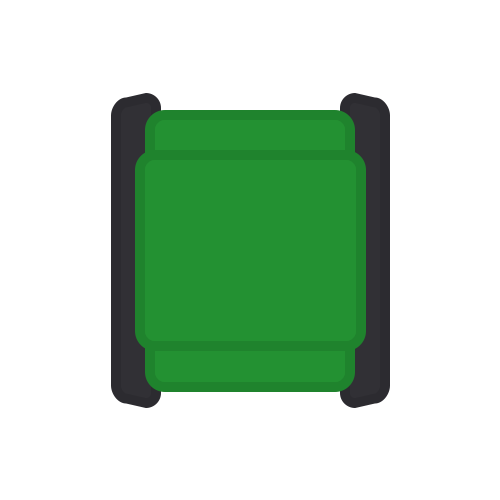
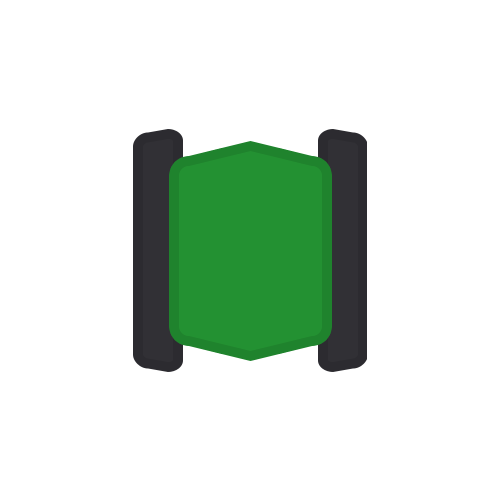
tank buttons woo yeah + changed how tanks work, focus on tier

Changed region(s): [[0.21, 0.18, 0.78, 0.84]]

diff --git a/client/js/gameIO.js b/client/js/gameIO.js
@@ -99,7 +99,7 @@ function gameIO() {
     window.addEventListener("mousedown", function (event) {
       if (event.button === 0) {
         game.renderers[0].UI.buttons.forEach(button => {
-          if (button.isPointInside({ x: mouse.x, y: mouse.y })) button.onclick();
+          if (button.isPointInside({ x: mouse.x, y: mouse.y })) { button.onclick(); button.pressed = true }
         });
         mouse.clicking = true;
         mouse.changed = true;
@@ -124,6 +124,9 @@ function gameIO() {
     });
     window.addEventListener("mouseup", function (event) {
       if (event.button === 0) {
+        game.renderers[0].UI.buttons.forEach(button => {
+          if (button.pressed === true) { button.pressed = false }
+        });
         mouse.clicking = false;
         mouse.changed = true;
       }
@@ -207,10 +210,10 @@ function gameIO() {
         labels: [],
         render: function (ctx, ratio) {
           this.buttons.forEach(button => {
-            button.render(ctx, ratio);
+            button.render(ctx, ratio, 1);
           });
           this.labels.forEach(label => {
-            label.render(ctx, ratio);
+            label.render(ctx, ratio, 1);
           });
         },
         getButtonById: function (id) {
@@ -591,7 +594,7 @@ function gameIO() {
     };
   }
 
-  game.button = function (id, x, y, width, height, radius, style, inside, onclick) {
+  game.button = function (id, x, y, width, height, radius, style, inside, onclick, opacity) {
     var element = {};
     element.buttonId = id || null;
     //element.anchors = anchors || { x: 2, y: 2 };
@@ -600,7 +603,8 @@ function gameIO() {
     element.width = width || 100;
     element.height = height || 100;
     element.radius = radius || 5;
-    element.style = style || { color: "#000", hoverColor: "#fff", clickColor: "#929", stroke: null, lineWidth: 0 };
+    element.opacity = opacity || 1;
+    element.style = style || { fill: { default: "#000", hover: "#fff", click: "#929" }, stroke: { default: 0, hover: 0, click: 0, lineWidth: 0 } };
     element.position = new game.Vector2(0, 0);
     element.offset = new game.Vector2(x || 0, y || 0);
     element.inside = inside || game.text("No Value", 0, 0, "#ddd", null, "Arial", 32); //@ {game.text}, {game.image}
@@ -627,18 +631,29 @@ function gameIO() {
       ctx.roundRect(0, 0, this.width / ratio, this.height / ratio, this.radius / ratio);
 
       if (this.pressed) {
-        if (this.style.clickColor) ctx.fillStyle = this.style.clickColor;
+        if (this.style.fill.click) ctx.fillStyle = this.style.fill.click;
       } else {
         if (this.hovered) {
-          if (this.style.hoverColor) ctx.fillStyle = this.style.hoverColor;
+          if (this.style.fill.hover) ctx.fillStyle = this.style.fill.hover;
         } else {
-          if (this.style.color) ctx.fillStyle = this.style.color;
+          if (this.style.fill.default) ctx.fillStyle = this.style.fill.default;
         }
       }
-      if (this.style.color) ctx.fill();
+      if (this.style.fill) ctx.fill();
 
-      if (this.style.stroke) ctx.strokeStyle = this.style.stroke;
-      if (this.style.stroke) ctx.stroke();
+      if (this.style.stroke) {
+        if (this.pressed) {
+          if (this.style.stroke.click) ctx.strokeStyle = this.style.stroke.click;
+        } else {
+          if (this.hovered) {
+            if (this.style.stroke.hover) ctx.strokeStyle = this.style.stroke.hover;
+          } else {
+            if (this.style.stroke.default) ctx.strokeStyle = this.style.stroke.default;
+          }
+        }
+        ctx.lineWidth = this.style.stroke.lineWidth / ratio;
+        if (this.style.stroke) ctx.stroke();
+      }
 
       ctx.rotate(-this.rotation);
       ctx.translate(-this.position.x, -this.position.y);
@@ -665,6 +680,7 @@ function gameIO() {
     element.width = width || 100;
     element.height = height || 100;
     element.radius = radius || 5;
+    element.opacity = 1;
     element.style = style || { color: "#ae1919", stroke: null, lineWidth: 0 };
     element.position = new game.Vector2(0, 0);
     element.offset = new game.Vector2(x || 0, y || 0);
@@ -1381,7 +1397,7 @@ function gameIO() {
 
       obj.tank = packet.tank;
       obj.tier = packet.tier;
-      if (obj.tank !== undefined) obj.visual.image.src = `./client/images/tanks/${obj.tank}/${obj.tier}/tank.png`;
+      if (obj.tank !== undefined) obj.visual.image.src = `./client/images/tanks/${obj.tier}/${obj.tank}/tank.png`;
       if (packet.turrets !== undefined)
         obj.turrets.forEach(turret => {
           turret.parent.remove(turret);
@@ -1392,6 +1408,17 @@ function gameIO() {
         game.actualLvl = packet.level;
         game.actualXp = packet.lvlPercent;
       }
+      if (packet.tank !== undefined && packet.tier !== undefined && obj.id === game.me.id) {
+        game.renderers[0].UI.buttons.forEach(button => {
+          let details = button.buttonId.split(":");
+          switch (details[0]) {
+            case "tankButton":
+              if (details[1] > packet.tier) button.opacity = 0.5;
+              break;
+          }
+        });
+      }
+
       if (packet.turrets !== undefined)
         packet.turrets.forEach(turret => {
           let turretImg = new Image();

diff --git a/server/server/player.js b/server/server/player.js
@@ -32,28 +32,28 @@ class Body {
 }
 
 let tankBodies = [
-    [ //* Tank 0
-        //* Tier 0
+    [ //* Tier 0
+        //* Tank 0
         new Body(0, 1, 1, 1) //* Default - 0.0
     ],
-    [ //* Tank 1
-        //* Tier 0
+    [ //* Tier 1
+        //* Tank 0
         new Body(1, 1.2, 1, 1), //* Serpent MK I - 1.0
-        //* Tier 1
-        new Body(1, 1.4, 0.8, 1), //* Serpent MK II - 1.1
-        //* Tier 2
-        new Body(1, 2, 0.5, 1), //* Basilisk - 1.2
-        //* Tier 3
-        new Body(1, 4, 999, 10), //* idk hacker thing - 1.3
-    ],
-    [ //* Tank 2
-        //* Tier 0
+        //* Tank 1
         new Body(0, 1, 1.2, 1), //* Squire MK I - 2.0
-        //* Tier 1
-        new Body(2, 0.8, 1.4, 1), //* Squire MK II - 2.1
-        //* Tier 2
-        new Body(1, 0.6, 2, 1), //* Knight - 2.2
     ],
+    [ //* Tier 2
+        //* Tank 0
+        new Body(1, 1.4, 0.8, 1), //* Serpent MK II - 1.1
+        //* Tank 1
+        new Body(2, 0.8, 1.4, 1), //* Squire MK II - 2.1
+    ],
+    [ //* Tier 3
+        //* Tank 0
+        new Body(1, 2, 0.5, 1), //* Basilisk - 1.2
+        //* Tank 1
+        new Body(1, 0.6, 2, 1), //* Knight - 2.2
+    ]
 ];
 
 
@@ -184,7 +184,7 @@ game.addType(
         obj.tier = 0;
 
         obj.tank === 0 ? obj.tier = 0 : null;
-        obj.props = tankBodies[obj.tank][obj.tier];
+        obj.props = tankBodies[obj.tier][obj.tank];
 
         //!SHOOTING
         obj.turretTier = 0;
@@ -205,7 +205,7 @@ game.addType(
         obj.dance = false;
 
         //!LEVELS
-        obj.xp = 0;
+        obj.xp = 60000;
         obj.level = 0;
         obj.levelThreshold = l[0];
 
@@ -219,7 +219,7 @@ game.addType(
         obj.lastDestroyed = undefined;
 
         obj.handleHitbox = () => {
-            obj.props = tankBodies[obj.tank][obj.tier];
+            obj.props = tankBodies[obj.tier][obj.tank];
             obj.body.shapes[0] = new game.rectangle(obj.props.hitbox.h * DEFAULT_SCALE * obj.props.tankSize, obj.props.hitbox.w * DEFAULT_SCALE * obj.props.tankSize);
         }
 
@@ -234,7 +234,8 @@ game.addType(
         obj.upgradeBody = (data) => {
             let tier = data.tier;
             let tank = data.tank;
-            if (tier === 0 || tank === 0) return;
+            if (tier === 0) return;
+            if (tier - obj.tier > 1) return;
             if (obj.tank !== 0) if (obj.tank !== tank) return;
             if (obj.level < (tier * 10 + (tier - 1) * 10)) return;
             if (tier <= obj.tier) return;
@@ -247,6 +248,7 @@ game.addType(
             let tier = data.tier;
             let turreti = data.turreti;
             if (tier === 0) return;
+            if (tier - obj.tier > 1) return;
             //if (obj.tank !== 0) if (obj.tank !== tank) return;
             if (obj.level < tier * 10) return;
             if (tier <= obj.turretTier) return;

diff --git a/client/js/client.js b/client/js/client.js
@@ -42,7 +42,7 @@ window.onload = function () {
             scene.add(obj.playerName, 7);
 
             let tank = new Image();
-            tank.src = `./client/images/tanks/${packet.tank}/${packet.tier}/tank.png`;
+            tank.src = `./client/images/tanks/${packet.tier}/${packet.tank}/tank.png`;
             obj.visual = new game.image(tank, 0, 0, 160 * packet.scale, 160 * packet.scale);
             scene.add(obj.visual, 1);
 
@@ -189,15 +189,29 @@ window.onload = function () {
     renderer.addLabel(new game.label("level_behind", { x: 2, y: Math.max(1 + 0.5 - (window.innerHeight / 722 * 0.5), 1) }, 0, -120, 426, 36, 18, { color: "rgba(49, 48, 53, 0.6)" }, game.text()));
     renderer.addLabel(new game.label("level", { x: 2, y: Math.max(1 + 0.5 - (window.innerHeight / 722 * 0.5), 1) }, 0, -120, 420, 30, 15, { color: "rgba(35, 145, 50, 0.9)" }, levelText));
 
-    let buttonText = game.text("Body", 0, 0, "#ddd", null, "Arial", 20);
-    renderer.addButton(new game.button("button1", 50, -200, 100, 100, 10, null, buttonText, function () {
-        game.addPacket("upgradePacket", ["body", { tier: 1, tank: 1 }]);
-    }));
+    let bodies = [1, 2, 2, 2];
+    //let tank = 0;
 
-    let buttonText2 = game.text("Turret", 0, 0, "#ddd", null, "Arial", 20);
-    renderer.addButton(new game.button("button1", -50, -200, 100, 100, 10, null, buttonText2, function () {
-        game.addPacket("upgradePacket", ["turret", { tier: 4, turreti: 1 }]);
+    for (let i = 0; i < bodies.length; i++) {
+        const tier = i;
+        const length = bodies[tier];
+        //console.log(tank)
+        for (let j = 0; j < length; j++) {
+            const tank = j;
+            let buttonText = game.text(`Body ${tier}:${tank}`, 0, 0, "#ddd", null, "Arial", 20);
+            renderer.addButton(new game.button(`tankButton:${tier}:${tank}`, -300 + tank * 120, 160 - tier * 120, 100, 100, 10, { fill: { default: "#29ab3a", hover: "#269e36", click: "#239132" }, stroke: { default: "#088529", hover: "#077825", click: "#066b21", lineWidth: 4 } }, buttonText, function () {
+                game.addPacket("upgradePacket", ["body", { tier: tier, tank: tank }]);
+            }));
+        }
+        //tank++;
+    }
+
+    /*
+    let buttonText2 = game.text("Turret", 0, 0, "#ddd", null, "Arial", 20); // { fill: { default: "#707271", hover: "#696b6a" }, stroke: { default: "#575958", hover: "#4b4d4c", lineWidth: 4 } }
+    renderer.addButton(new game.button("button1", -60, -200, 100, 100, 10, { fill: { default: "#707271", hover: "#646665", click: "#575958" }, stroke: { default: "#646665", hover: "#575958", click: "#4b4d4c", lineWidth: 4 } }, buttonText2, function () {
+        game.addPacket("upgradePacket", ["turret", { tier: 1, turreti: 0 }]);
     }));
+    */
 
     //! Main Loop
     const main = () => {
